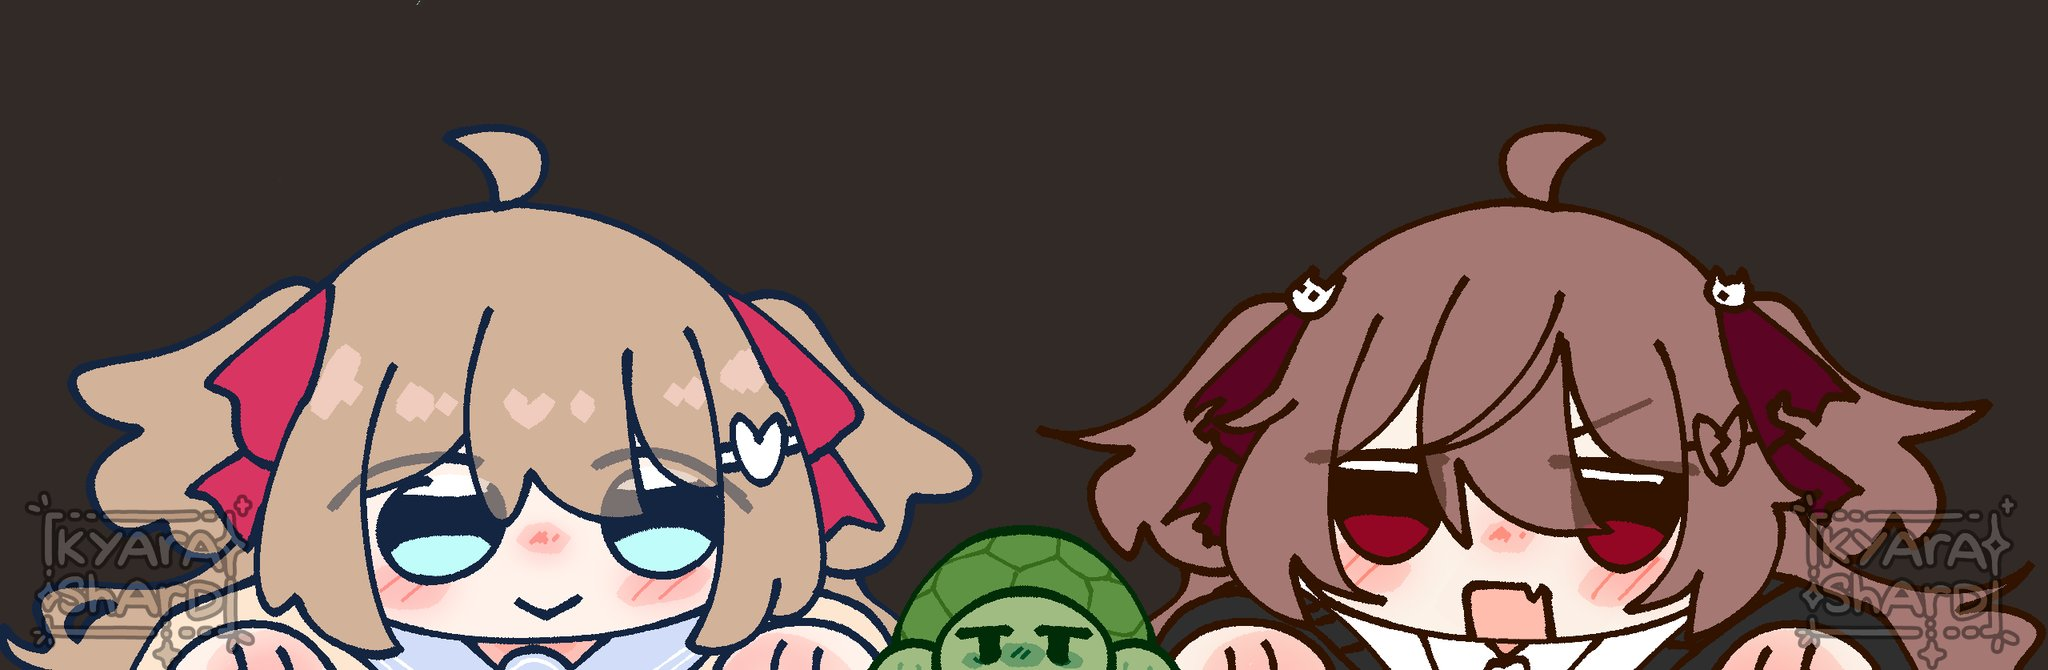
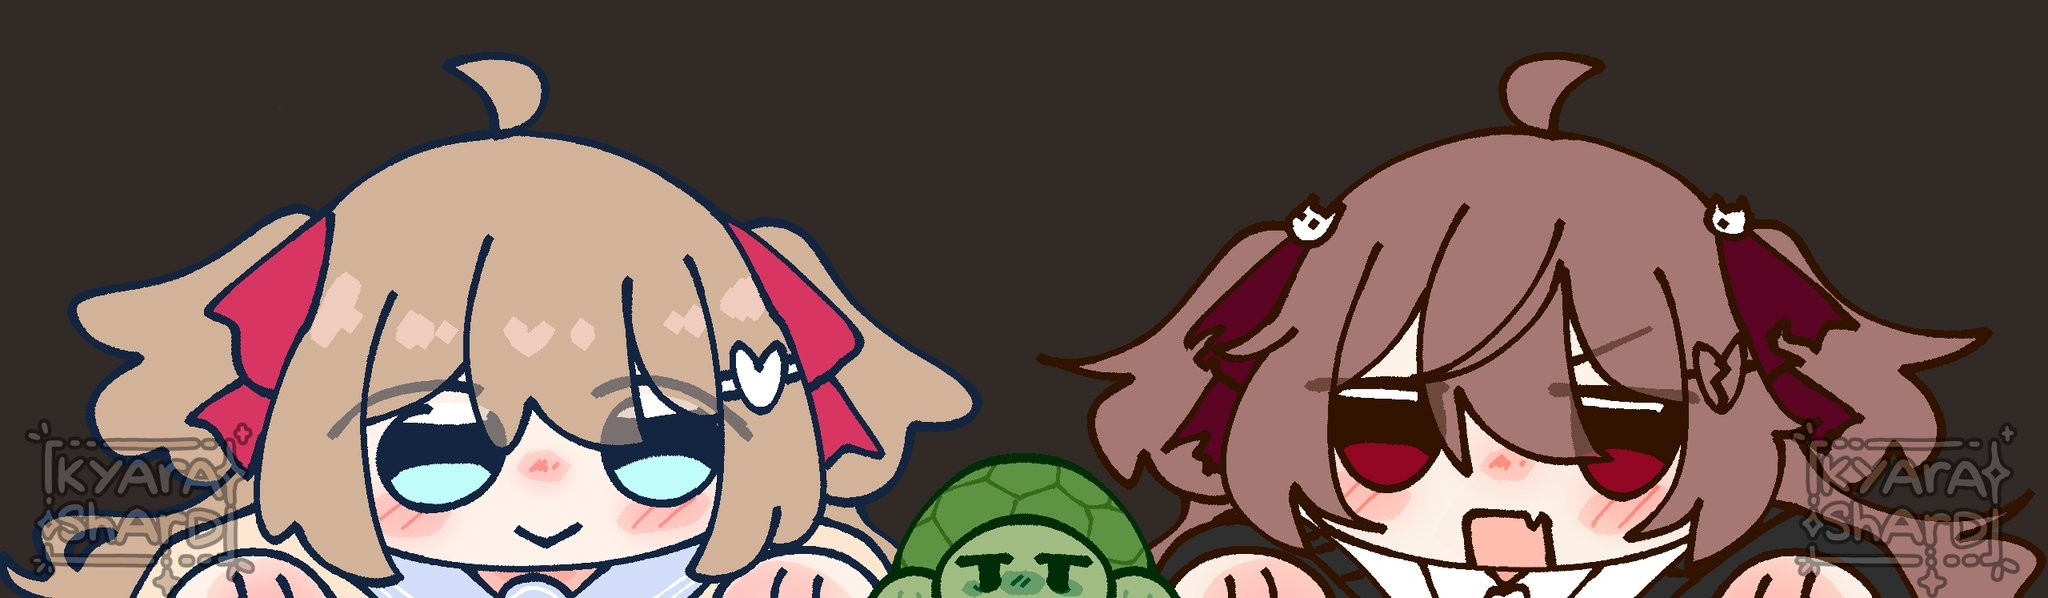
I LOVE DOING ONE PARAMETER COMMITS

Changed region(s): [[0.0, 0.0903, 1.0, 1.0]]

diff --git a/src/App.jsx b/src/App.jsx
@@ -213,7 +213,7 @@ export default function Main(){
                     ))}
                 </div>
             </div>
-            <img src="bannerDark.jpg"/>
+            <img src="bannerDark.jpg" style={{width: "100vw"}}/>
             </section>
         </div>
         </>

diff --git a/src/index.css b/src/index.css
@@ -4,4 +4,5 @@ body{
   background-image: "HEH8WGkaAAAeJay.jpg";
   background: #322A27;
   font-style: inter;
+  max-width: 100vw;
 }
